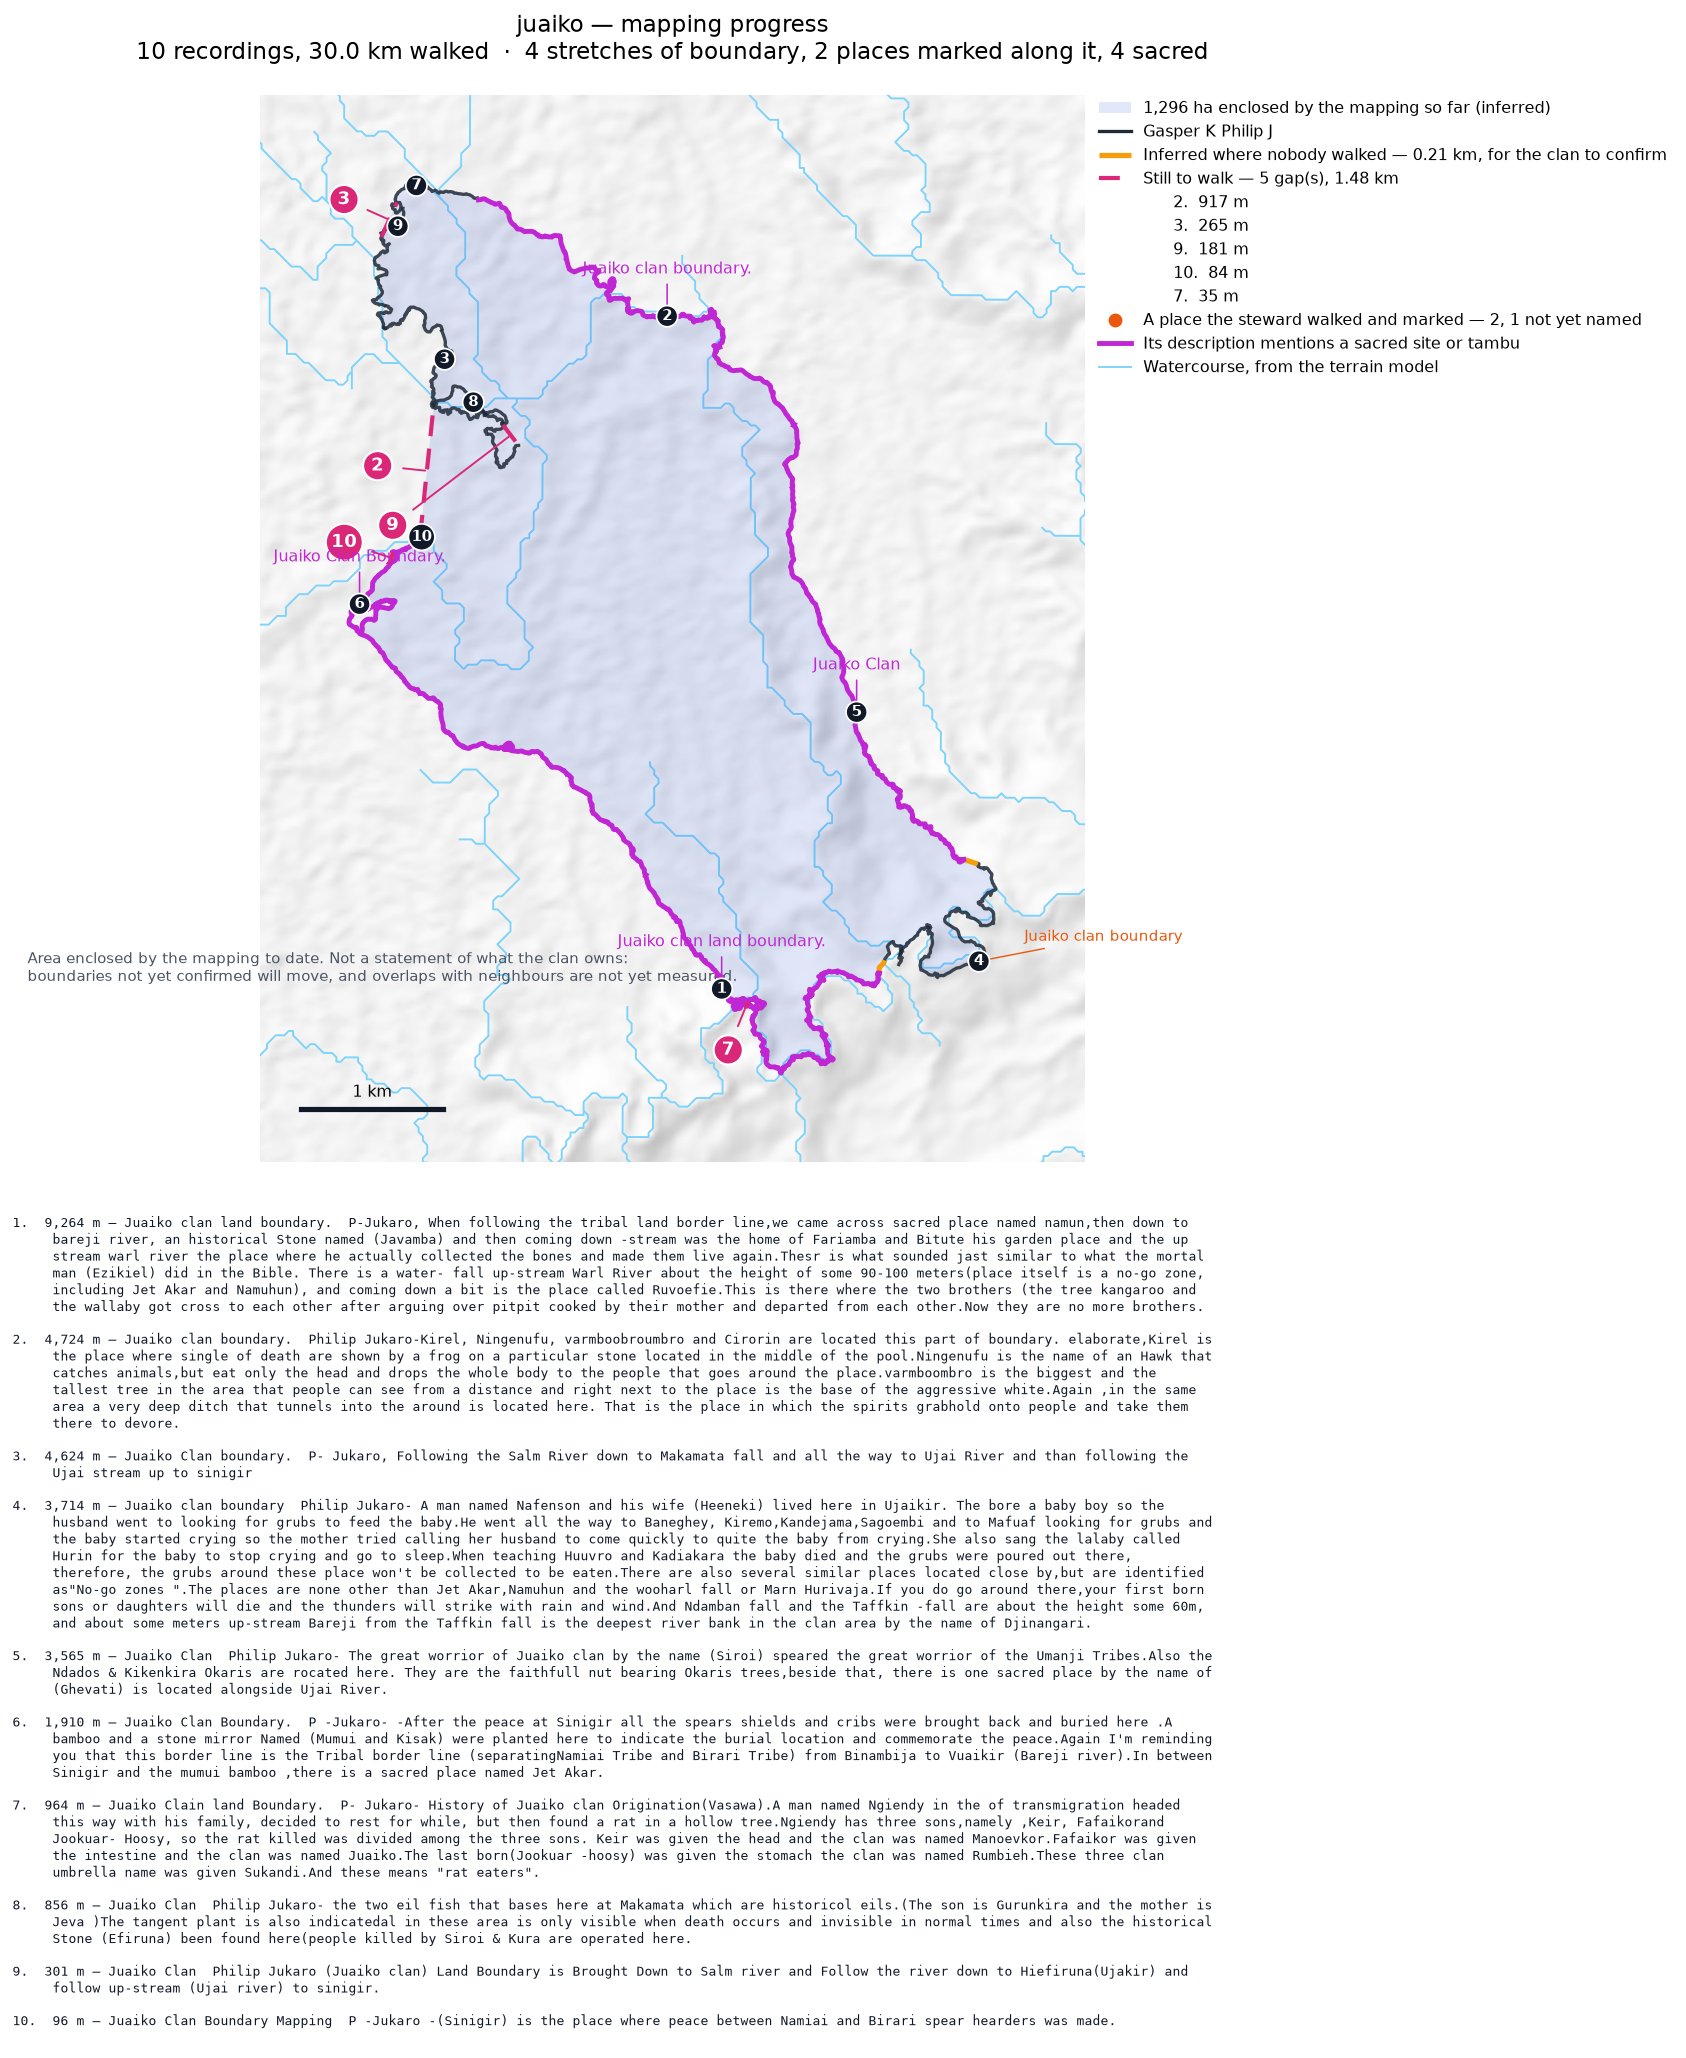
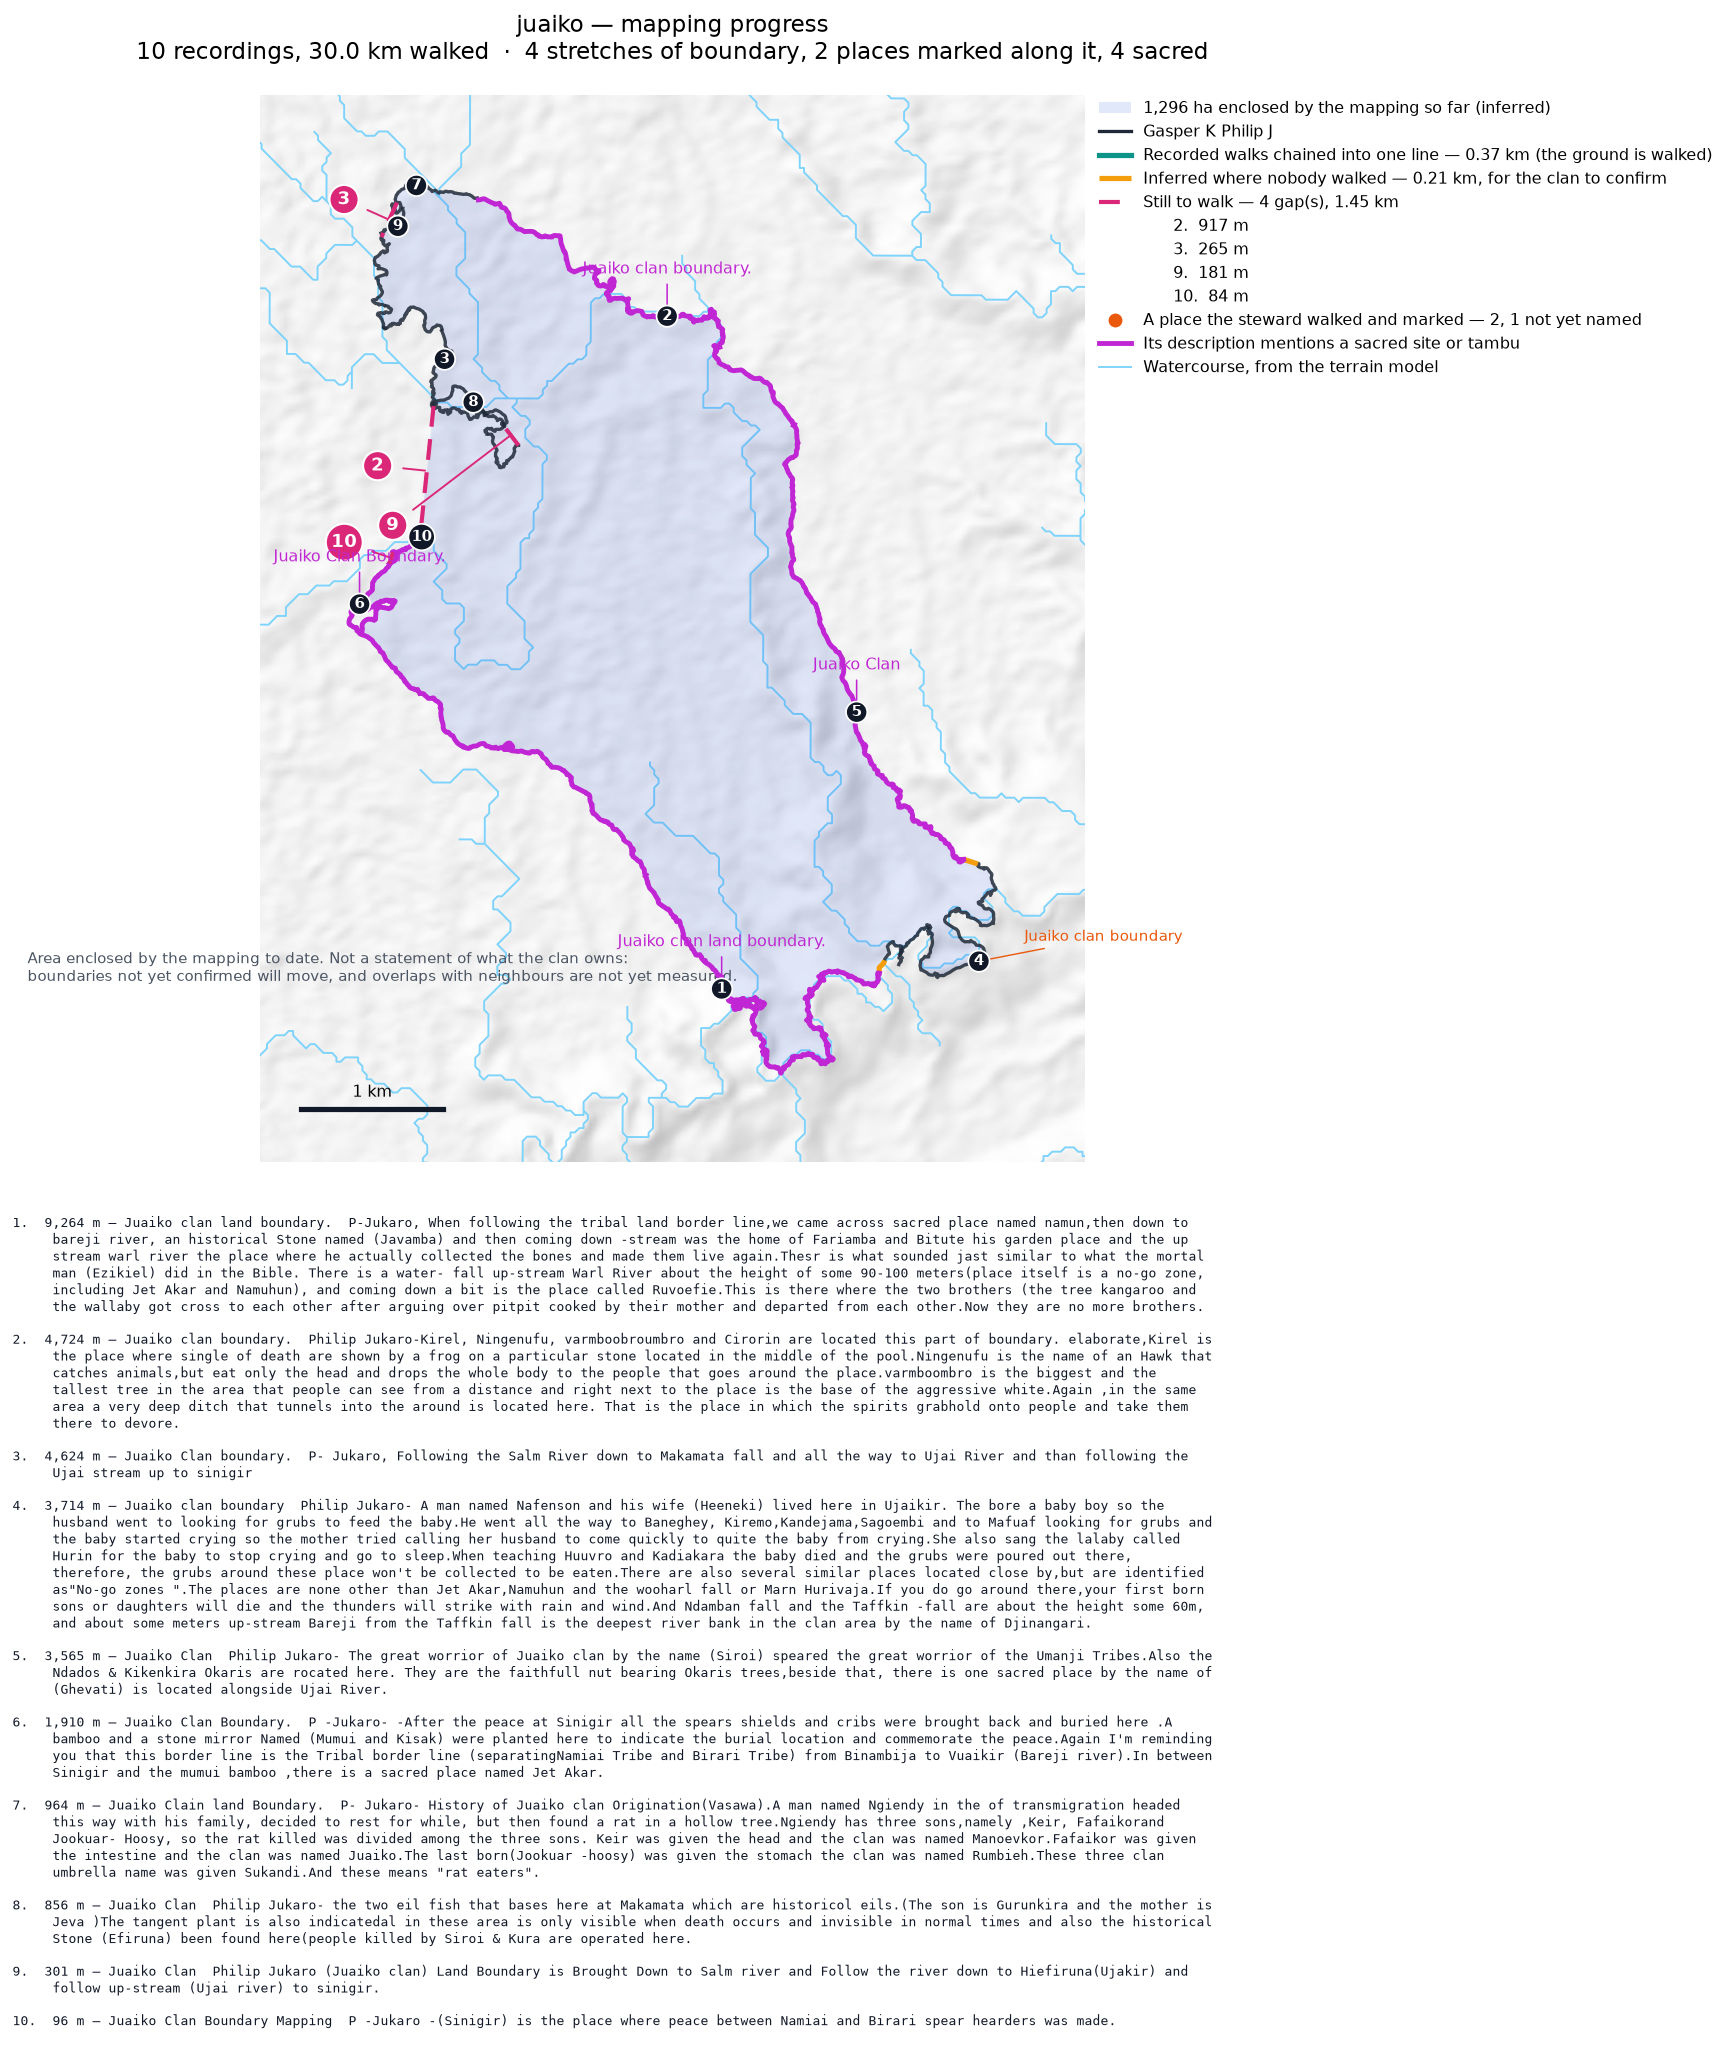
Juaiko gap 7: a central line through the crisscrossed ground, applied
369 m, node to node — from where the inbound recording begins at
644198E 8980753N to where the outbound one does at 644441E 8980605N.
Every metre of it lies within 10 m of walked line, so it draws as
chained record, not inference. New kind walk_centreline, and
scripts/centreline.py which takes the medial axis of the corridor the
walking occupies.

Two things had to be right or it broke the clan:

* the line runs node to node, not from circle edge to circle edge. An
  earlier 503 m version stopped in the middle of two recordings, left
  two free ends the graph could not see, and cost 71 ha;
* with the south closed, the western piece has three free ends, and
  _chains was keeping the two furthest apart — which throws away
  whichever end has the nearest neighbour. It discarded a free end 84 m
  from its partner, kept one 322 m from anything, and drew the 322 m.
  The more-than-two case now chooses by where the neighbours are, the
  same rule as the fewer-than-two case, under the same per-survey
  keep_free_end approval.

Juaiko 1,296.3 ha unchanged, gaps 5 -> 4, still to walk 1.48 -> 1.45 km,
chained 0 -> 0.37 km. Dataset 33,458.9 ha, no other survey touched.

Claude-Session: https://claude.ai/code/session_01K6X75MkuiGQ9rmgDZx45vk

diff --git a/scripts/centreline.py b/scripts/centreline.py
@@ -1,0 +1,92 @@
+"""A central line through a thicket of walked track.
+
+Where a steward has quartered the same ground over and over there is no
+single recorded line to follow, and a straight chord across it says the
+boundary is somewhere nobody walked. Neither is true. The line that is
+true is the middle of the walking.
+
+Taken as the medial axis of the corridor the walking occupies: buffer the
+tracks, take the Voronoi diagram of the corridor's own outline, keep the
+ridges that lie inside it, and walk the shortest path along them between
+the two points where the boundary enters and leaves.
+"""
+from __future__ import annotations
+
+import networkx as nx
+import numpy as np
+from scipy.spatial import Voronoi
+from shapely.geometry import LineString, Point
+from shapely.ops import unary_union
+
+
+def _densify(ring, step: float):
+    out = []
+    length = ring.length
+    n = max(int(length / step), 8)
+    for i in range(n):
+        p = ring.interpolate(i / n, normalized=True)
+        out.append((p.x, p.y))
+    return out
+
+
+def centreline(tracks, entry: Point, exit_: Point,
+               width: float = 22.0, step: float = 6.0):
+    """The middle of `tracks`, from `entry` to `exit_`."""
+    corridor = unary_union([t.buffer(width) for t in tracks])
+    if corridor.geom_type == "MultiPolygon":
+        corridor = max(corridor.geoms, key=lambda g: g.area)
+
+    points = _densify(corridor.exterior, step)
+    for hole in corridor.interiors:
+        points += _densify(hole, step)
+    diagram = Voronoi(np.array(points))
+
+    inner = corridor.buffer(-0.5)
+    graph = nx.Graph()
+    for (a, b) in diagram.ridge_vertices:
+        if a < 0 or b < 0:
+            continue
+        pa = tuple(diagram.vertices[a])
+        pb = tuple(diagram.vertices[b])
+        edge = LineString([pa, pb])
+        if not inner.contains(edge):
+            continue
+        graph.add_edge(pa, pb, weight=edge.length)
+
+    if not graph.number_of_nodes():
+        raise ValueError("no medial axis found inside the corridor")
+
+    def nearest(point):
+        return min(graph.nodes, key=lambda n: (n[0] - point.x) ** 2
+                   + (n[1] - point.y) ** 2)
+
+    start, finish = nearest(entry), nearest(exit_)
+    # The axis can come in several pieces; work in the one holding both.
+    if not nx.has_path(graph, start, finish):
+        for piece in nx.connected_components(graph):
+            sub = graph.subgraph(piece)
+            if sub.number_of_nodes() < 4:
+                continue
+            s = min(sub.nodes, key=lambda n: (n[0] - entry.x) ** 2
+                    + (n[1] - entry.y) ** 2)
+            f = min(sub.nodes, key=lambda n: (n[0] - exit_.x) ** 2
+                    + (n[1] - exit_.y) ** 2)
+            if nx.has_path(sub, s, f):
+                graph, start, finish = sub, s, f
+                break
+        else:
+            raise ValueError("entry and exit are not joined in the axis")
+
+    path = nx.shortest_path(graph, start, finish, weight="weight")
+    line = LineString([entry.coords[0]] + path + [exit_.coords[0]])
+
+    # The medial axis is jagged where the corridor outline is. Resample and
+    # average, the same way the tracks themselves are smoothed.
+    n = max(int(line.length / 10), 4)
+    pts = [line.interpolate(i / n, normalized=True) for i in range(n + 1)]
+    xs = np.array([p.x for p in pts])
+    ys = np.array([p.y for p in pts])
+    k = np.ones(3) / 3
+    xs[1:-1] = np.convolve(xs, k, mode="same")[1:-1]
+    ys[1:-1] = np.convolve(ys, k, mode="same")[1:-1]
+    return LineString(np.column_stack([xs, ys])).simplify(1.5)

diff --git a/scripts/closure.py b/scripts/closure.py
@@ -509,6 +509,27 @@ def _chains(edges: list[dict], positions: dict,
                 loose = _furthest_pair(nodes, positions)
             else:
                 loose = nodes * 2
+        if len(loose) > 2 and keep_free_end:
+            # More than two free ends, and the ring can only enter and leave
+            # once. Taking the two furthest apart discards whichever end has
+            # the nearest neighbour — which is the one most obviously
+            # joined to something. On Juaiko it threw away a free end 84 m
+            # from its partner and kept one 322 m from anything, and drew
+            # the 322 m.
+            #
+            # Same answer as the fewer-than-two case: keep the ends where
+            # the neighbours are.
+            nodes = list({n for e in group_edges for n in (e["a"], e["b"])})
+            member = set(nodes)
+            outside = [n for n in positions
+                       if n not in member and n in groups.parent
+                       and groups.find(n) != root]
+            if outside:
+                def reach(n):
+                    x, y = positions[n]
+                    return min((x - positions[m][0]) ** 2
+                               + (y - positions[m][1]) ** 2 for m in outside)
+                loose = sorted(loose, key=reach)[:2]
         if len(loose) > 2:
             best, pair = -1.0, (loose[0], loose[1])
             for i in range(len(loose)):

diff --git a/scripts/dataio.py b/scripts/dataio.py
@@ -715,6 +715,18 @@ def adopted_segments(unit: str | None = None):
     the clan agreeing to a line, and recording one as the other puts words in
     their mouth about ground they have not seen drawn.
 
+    `walk_centreline` — where a steward quartered the same ground instead of
+    walking one line there is no recorded line to follow, and a chord across
+    the thicket says the boundary is somewhere nobody walked. The line taken
+    is the middle of the walking: the medial axis of the corridor the tracks
+    occupy, between the two nodes where the boundary enters and leaves it.
+    The ground under it is walked, so it is chained record rather than
+    inference, and the 10 m test on the maps will say so. See
+    scripts/centreline.py.
+
+    `end_joined` — an editorial join between two recorded open ends, decided
+    from the map. Nobody walked it and the field did not specify it.
+
     `accepted_complete` — the survey team judges a map finished and the
     remaining stretch not worth a return to the field. It closes the boundary
     on the project's authority, not the clan's, and says so wherever it is
